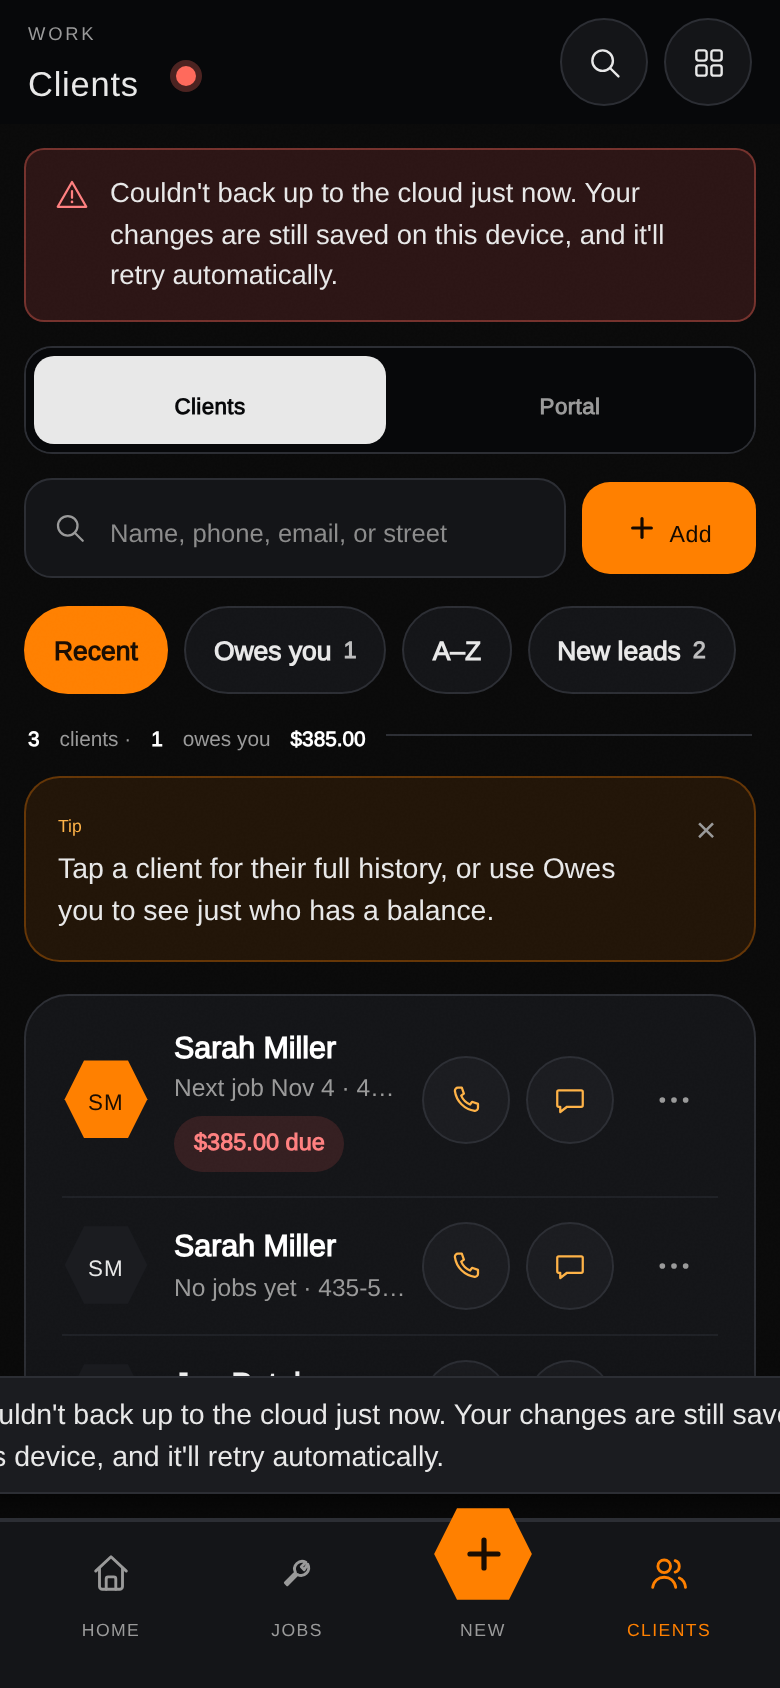
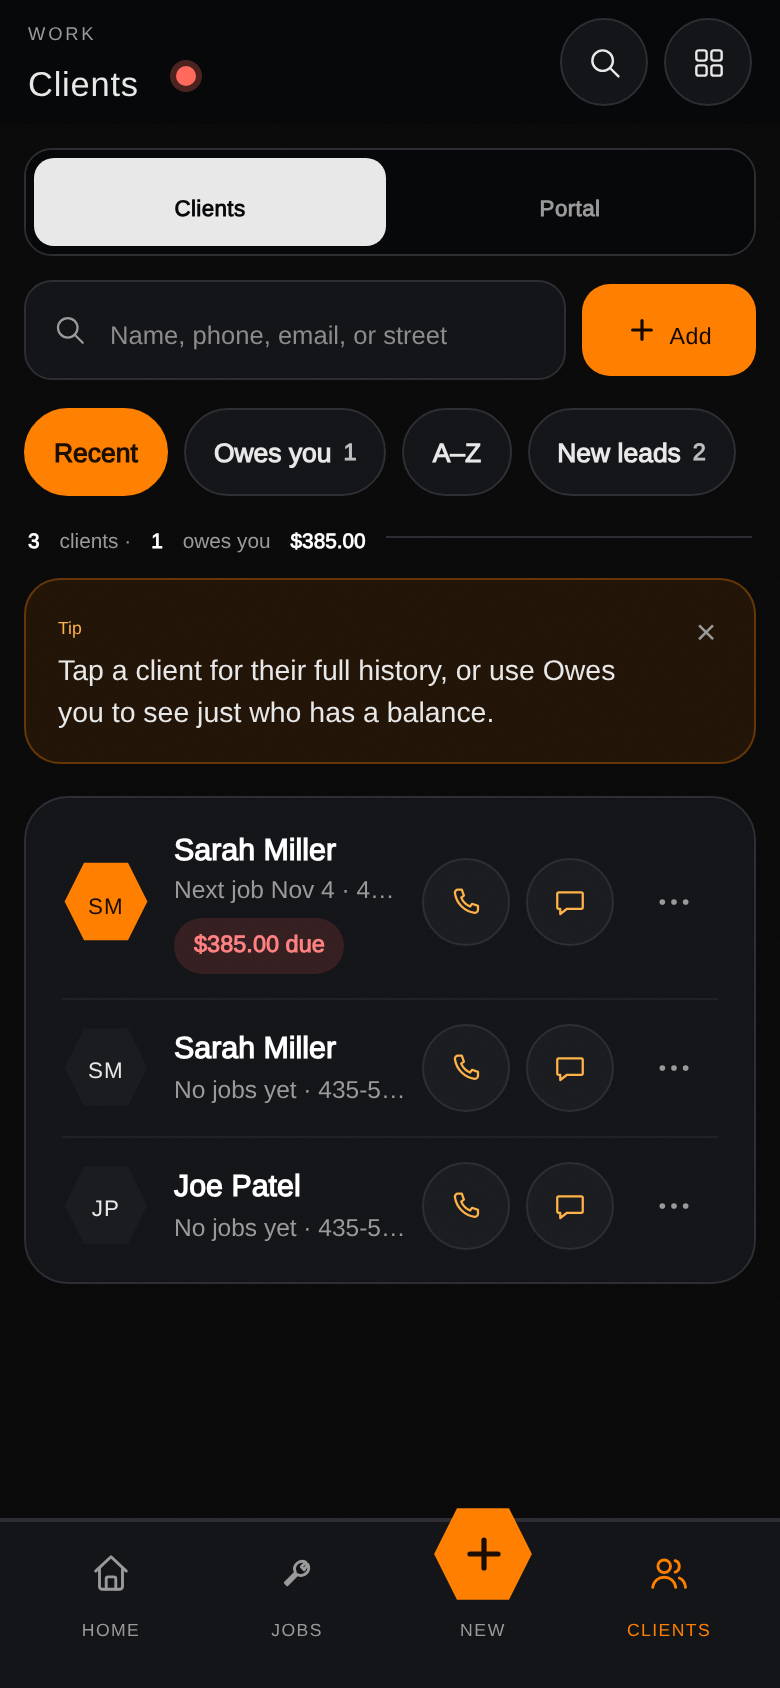
P3: rebase on main, bump cache to v436, refresh 390/1440 screenshots
Claude-Session: https://claude.ai/code/session_01AP35MrrxTXmjJnJsZtVT72

diff --git a/service-worker.js b/service-worker.js
@@ -713,7 +713,7 @@
 // specificity) when there's nothing scheduled, and unhides it the
 // moment a real job exists again. workspace.html is precached. Same
 // reasoning as every prior bump in this file's history.
-const CACHE_NAME = 'th-workspace-v435'; // precache-fingerprint:e5e7c6bc41ff
+const CACHE_NAME = 'th-workspace-v436'; // precache-fingerprint:1ccc08cadd0d
 const PRECACHE_URLS = [
   '/tools/workspace.html', '/tools/job-tracker.html', '/tools/invoice-generator.html', '/tools/contract-generator.html',
   '/tools/route-planner.html', '/tools/review-request.html', '/tools/login.html',

diff --git a/tools/dev-tools.html b/tools/dev-tools.html
@@ -54,7 +54,7 @@
 </script>
 <link rel="stylesheet" href="/styles.css?v=f201d6d01a">
 <link rel="stylesheet" href="/tools/styles-tools.css?v=f212452f48">
-<script src="/tools/data-layer.js?v=c595490771" defer></script>
+<script src="/tools/data-layer.js?v=b5758547dc" defer></script>
 <script src="/tools/dev-tools-shared.js?v=ffcb14381f" defer></script>
 <script src="/tools/tools-effects.js?v=0c74baaa7e" defer></script>
 <script src="/tools/tools-dialogs.js?v=c38f7b5b1e" defer></script>

diff --git a/tools/site-content.html b/tools/site-content.html
@@ -54,7 +54,7 @@
 </script>
 <link rel="stylesheet" href="/styles.css?v=f201d6d01a">
 <link rel="stylesheet" href="/tools/styles-tools.css?v=f212452f48">
-<script src="/tools/data-layer.js?v=c595490771" defer></script>
+<script src="/tools/data-layer.js?v=b5758547dc" defer></script>
 <script src="/tools/dev-tools-shared.js?v=ffcb14381f" defer></script>
 <script src="/tools/tools-effects.js?v=0c74baaa7e" defer></script>
 <script src="/tools/tools-dialogs.js?v=c38f7b5b1e" defer></script>
